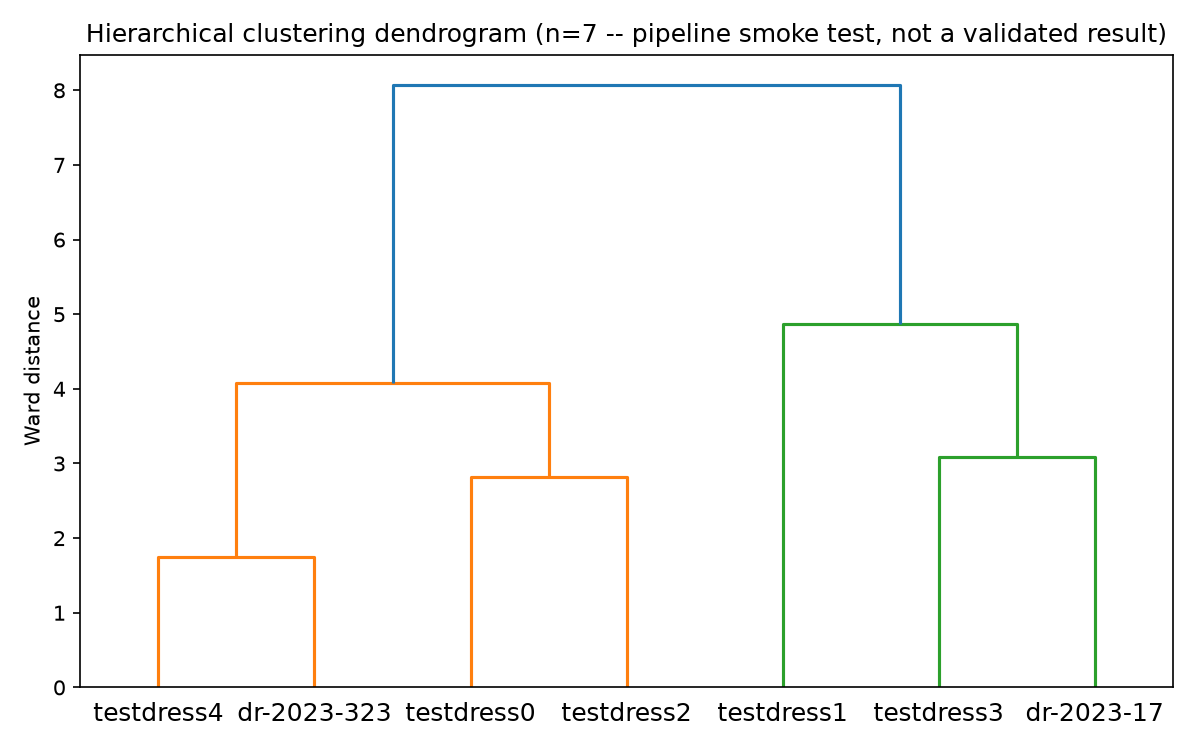
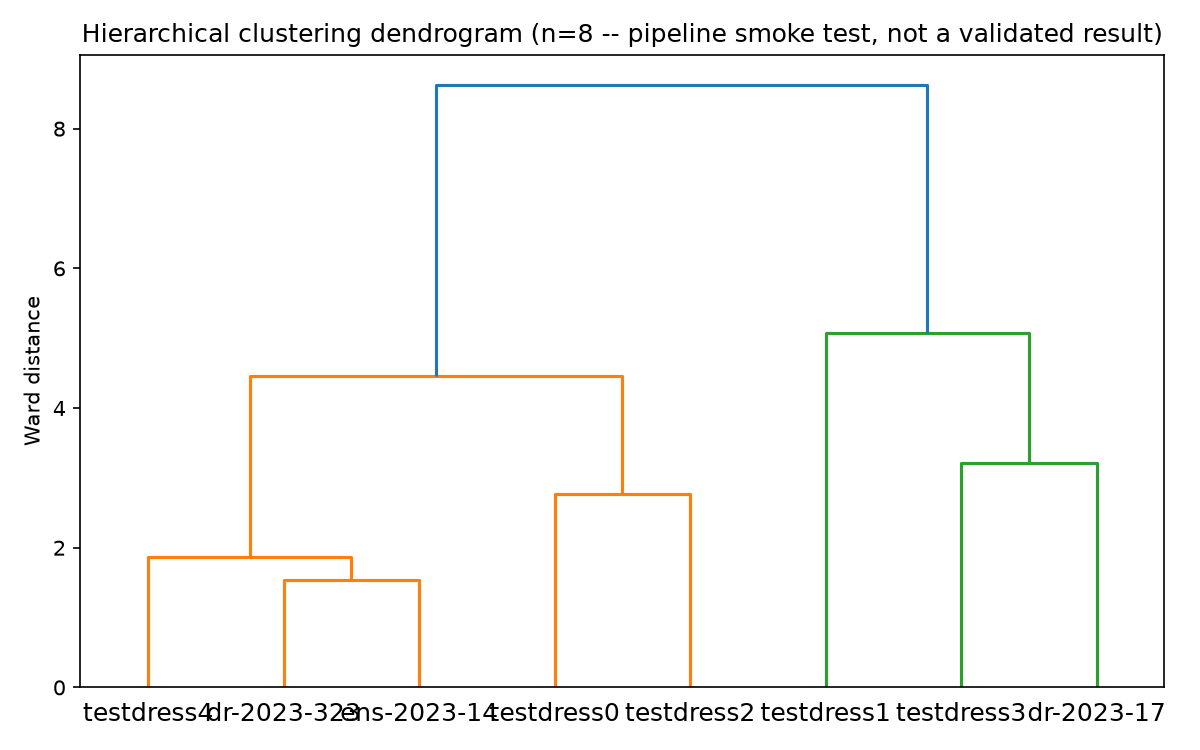
new mesh

diff --git a/dense_features.py b/dense_features.py
@@ -10,7 +10,17 @@ experiments/dense_vs_retopo/ for the comparison.
 
 Pipeline: decimate_dense_textured.py (5M -> 100k faces) -> merge vertices by
 position (drops UV-seam splits so curvature sees a connected surface) ->
-connectivity check -> decimate_mesh.py to --target-vertices -> extract_features.
+connectivity check -> decimate_mesh.py to --target-vertices -> split
+non-manifold edges -> extract_features.
+
+Non-manifold edges: where two fabric layers touch, a scan can end up with an
+edge shared by 4 faces instead of 2 (first seen on ENS.2023.14, 2026-10-07:
+one such edge, every other edge clean). trimesh then reports the mesh as not
+watertight and volume goes NaN, which drops volume from PCA for every
+garment. One endpoint of each such edge is split into one vertex per sheet
+(fan of faces connected through manifold edges), and each copy is nudged
+1e-5 x the bbox diagonal toward its own sheet so trimesh's default vertex
+merge doesn't fuse them back.
 
 Density is held fixed on purpose: curvature drifts systematically with mesh
 density (in a different direction per garment), but within 13k-17k vertices
@@ -57,6 +67,51 @@ def connectivity(mesh):
     return int((sizes > 0).sum()), int((counts == 1).sum())
 
 
+def split_nonmanifold_edges(mesh, max_splits=100):
+    """Return (mesh, n_vertices_split). See module docstring.
+
+    Splits one endpoint of a non-manifold edge at a time, then rechecks. One
+    endpoint is enough: its fans each take one copy of the edge. Splitting both
+    endpoints fails on a crossing pinch, where the faces pair up into sheets one
+    way around one endpoint and the other way around the other (ENS.2023.14)."""
+    verts, faces = mesh.vertices.copy(), mesh.faces.copy()
+    nudge = 1e-5 * float(np.linalg.norm(mesh.extents))
+    for n_split in range(max_splits + 1):
+        edges = np.sort(np.concatenate([faces[:, [0, 1]], faces[:, [1, 2]], faces[:, [2, 0]]]), axis=1)
+        uniq, counts = np.unique(edges, axis=0, return_counts=True)
+        bad = uniq[counts > 2]
+        if len(bad) == 0 or n_split == max_splits:
+            break
+        manifold = {tuple(e) for e in uniq[counts == 2]}
+        v = bad[0][0]
+        incident = np.where((faces == v).any(axis=1))[0]
+        # faces around v are in the same sheet if they share a manifold edge through v
+        parent = {f: f for f in incident}
+        def find(f):
+            while parent[f] != f:
+                parent[f] = parent[parent[f]]
+                f = parent[f]
+            return f
+        by_edge = {}
+        for f in incident:
+            for w in faces[f]:
+                if w != v:
+                    by_edge.setdefault(tuple(sorted((v, w))), []).append(f)
+        for e, fs in by_edge.items():
+            if e in manifold and len(fs) == 2:
+                parent[find(fs[0])] = find(fs[1])
+        fans = {}
+        for f in incident:
+            fans.setdefault(find(f), []).append(f)
+        for fan in list(fans.values())[1:]:
+            centre = verts[faces[fan].ravel()].mean(axis=0)
+            d = centre - verts[v]
+            verts = np.vstack([verts, verts[v] + nudge * d / (np.linalg.norm(d) or 1.0)])
+            for f in fan:
+                faces[f][faces[f] == v] = len(verts) - 1
+    return trimesh.Trimesh(vertices=verts, faces=faces, process=False), n_split
+
+
 def main():
     p = argparse.ArgumentParser(description=__doc__, formatter_class=argparse.RawDescriptionHelpFormatter)
     p.add_argument("--obj", required=True, help="Dense RealityScan OBJ (welded if the raw scan is fragmented)")
@@ -86,7 +141,10 @@ def main():
                      "or use --allow-open to override.")
         m.export(merged)
         run_blender("decimate_mesh.py", "--input-obj", merged, "--output-obj", final, "--target-vertices", str(a.target_vertices))
-        row = ef.compute_features(ef.load_mesh(final), a.garment_id, a.label, a.capture_method)
+        mesh, n_split = split_nonmanifold_edges(ef.load_mesh(final))
+        if n_split:
+            print(f"  split {n_split} vertex/vertices at non-manifold edges -> watertight={mesh.is_watertight}")
+        row = ef.compute_features(mesh, a.garment_id, a.label, a.capture_method)
         ef.upsert_row(a.out, row)
     print(f"wrote row for '{a.garment_id}' to {a.out}")
 

diff --git a/README.md b/README.md
@@ -32,6 +32,7 @@ RealityScan export (dense OBJ + diffuse texture)
                        ↓                   (dense_features.py refuses those)
                     dense_features.py   <- decimate -> merge -> connectivity
                        ↓                   check -> 15k vertices ->
+                       ↓                   split non-manifold edges ->
                        ↓                   extract_features.py
                     features.csv
                        ↓
@@ -322,6 +323,19 @@ vertices, `testdress1` 0.25 -> 0.22), but within 13k-17k vertices it varies
 only ~4% per garment vs a between-garment spread ~20x larger (signal-to-noise
 22-113 for every feature; `volume` is essentially exact). The 13k-17k band was
 more stable than 25k-50k on symmetry and drape, so 15k stays the target.
+
+**Non-manifold edges (added 2026-10-07).** After the 15k decimation, any edge
+shared by more than 2 faces is repaired before features are computed. This
+happens where two fabric layers touch: `ENS.2023.14` had one such edge, which
+made trimesh report the mesh as not watertight, set `volume` to NaN, and
+dropped `volume` from PCA for every garment. One endpoint of the edge is split
+into one vertex per sheet, and each copy is nudged 1e-5 x the bbox diagonal so
+trimesh's default vertex merge doesn't fuse them back. Only one endpoint is
+split: ENS.2023.14's pinch is a crossing, where the faces pair up into sheets
+differently at each end, so splitting both endpoints leaves 4 one-sided edges.
+On ENS.2023.14 this added 1 vertex. `surface_area`, curvature, symmetry and
+drape moved by under 0.3%, and `volume` became 650.5. The step does nothing
+on a mesh that is already watertight, which covers the other 7 rows.
 
 `features_retopo_v1.csv` / `pca_sanity_check_retopo_v1.png` preserve the
 previous retopology-based results.
